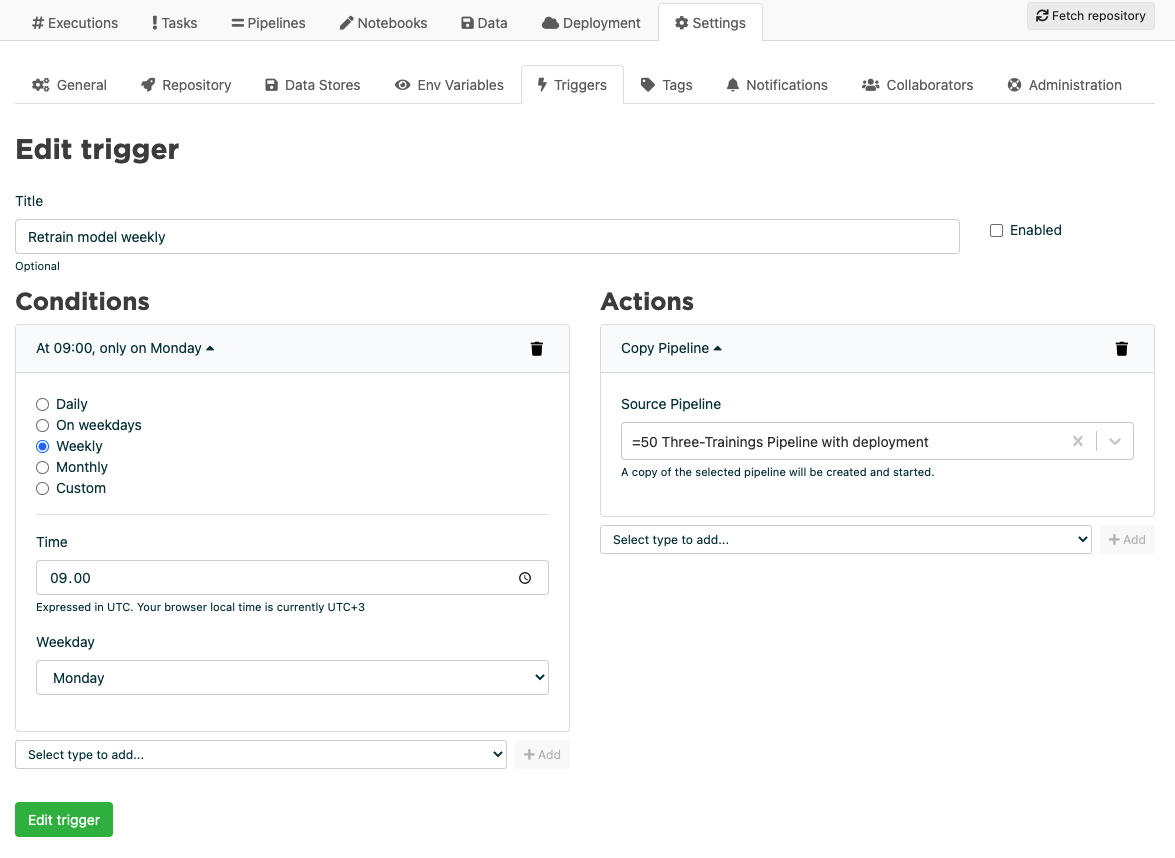
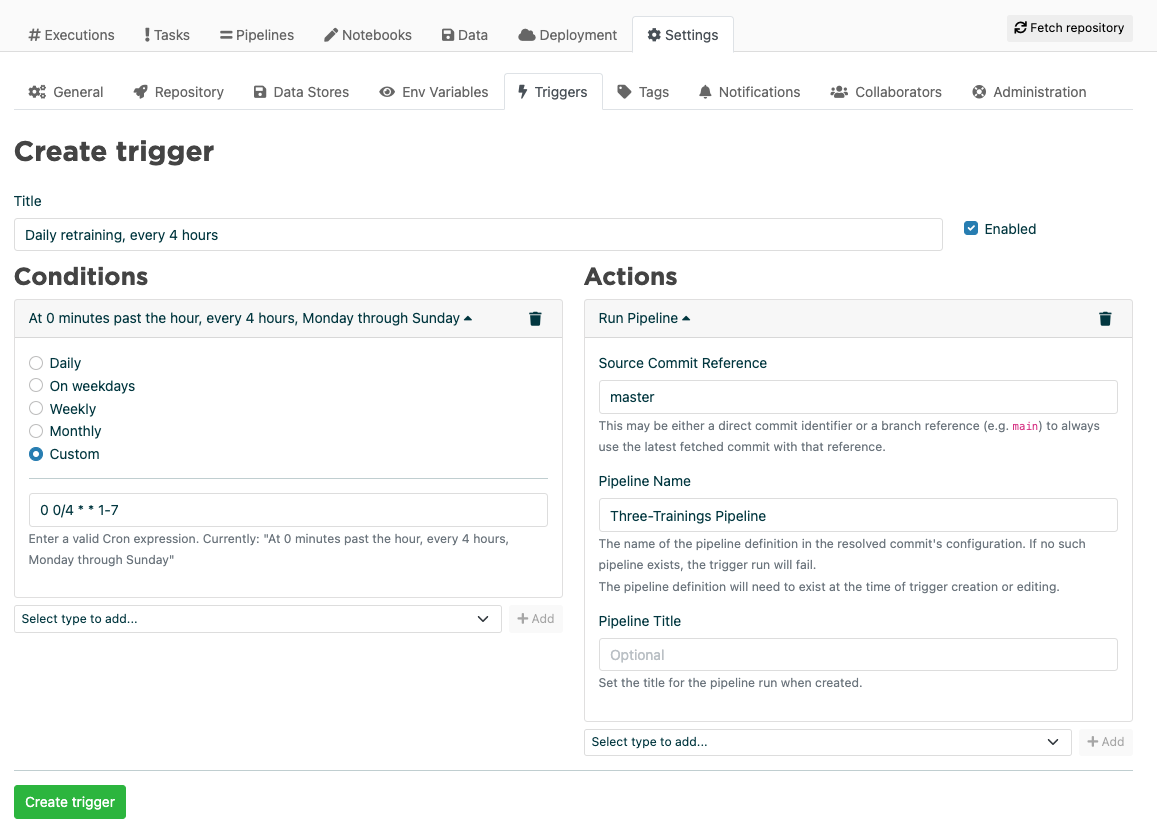
Adding pipeline triggers to the guide (#190)
* Updated the docs on "How to automatically run pipelines"

* fix bulleting on pipelines

* update trigger page formatting

diff --git a/source/howto/pipelines/triggers.rst b/source/howto/pipelines/triggers.rst
@@ -11,17 +11,26 @@ Valohai triggers allow you to launch a copy of an existing pipeline on a time-ba
 .. note::
 
     You can create a trigger after you've ran at least one succesfully completed pipeline.
+    You can either schedule a specific (commit) version of a pipeline to run or schedule a pipeline run that always uses the latest version of the pipeline.
 
 ..
 
-1. Go to project settings
-2. Navigate to the Triggers tab
-3. Set your trigger title (e.g. *Weekly re-training*)
-4. Select *Scheduled (Cron)* as the condition, as click *Add*
-5. Open the condition and set the schedule you want. For example, Weekly on Mondays at 09:00
-6. On the *Actions* column select *Copy Pipeline* and click *Add*
-7. Open the action and select the *Source Pipeline* that you want to run
-8. Click on *Create trigger*
+* Go to project settings
+* Navigate to the Triggers tab
+* Set your trigger title (e.g. Daily retraining, every 4 hours)
+* Select Scheduled (Cron) as the condition, as click Add
+* Open the condition and set the schedule you want.
+   * You can either use one of the options or select Custom
+   * For example a custom value: 0 0/4 * * 1-7 would run the pipeline every 4 hours on every day of the week.
+* On the Actions column select the right action and click Add
+   * Copy Pipeline reruns always the same pipeline version
+      * Select the Source Pipeline that you want to run
+   * Run Pipeline runs a pipeline with whatever is the newest version fetched to Valohai
+   * Source Commit Reference, could be for example main to always run with the latest pipeline from your main branch
+   * Pipeline Name is the name of the pipeline in your valohai.yaml
+   * Pipeline Title is the title used in the UI and API results
+* Click on Create trigger
+
 
 .. warning::
 
